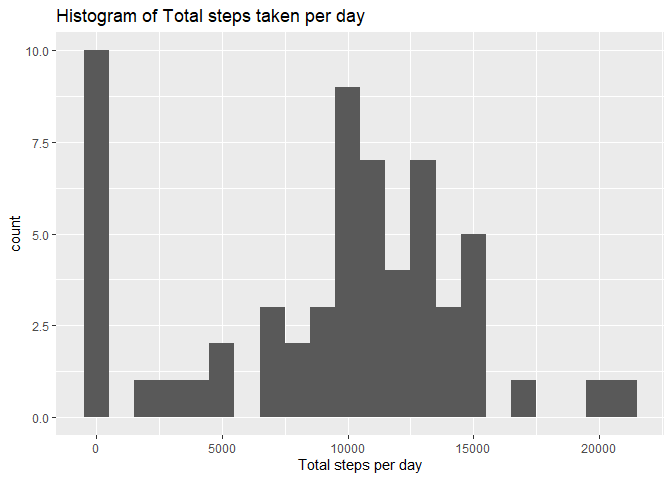
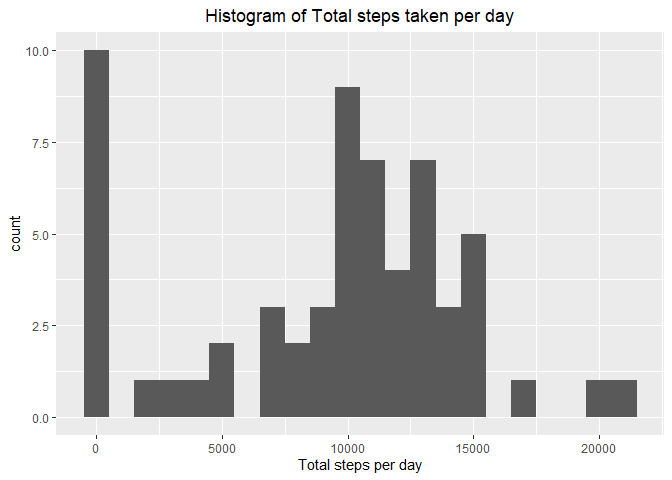
Finished

Changed region(s): [[0.0938, 0.0, 0.7812, 0.0625]]

diff --git a/PA1_template.md b/PA1_template.md
@@ -20,11 +20,13 @@ library(ggplot2)
 ## Warning: package 'ggplot2' was built under R version 4.0.2
 ```
 ## What is mean total number of steps taken per day?
-Calculate the total steps take per day and plot
+Calculate the total steps take per day and its mean and median. Also the histogram of daily steps are plotted.
 
 ```r
 stepDay <- tapply(acti$steps, acti$date, sum, na.rm = TRUE)
 stepDayDF <- data.frame(stepTtlDay = stepDay, Day = unique(acti$date))
+
+theme_update(plot.title = element_text(hjust = 0.5))
 g <- ggplot(stepDayDF, aes(stepTtlDay))
 g + geom_histogram(binwidth = 1000) + labs(x = "Total steps per day", 
                                            title = "Histogram of Total steps taken per day")
@@ -32,11 +34,36 @@ g + geom_histogram(binwidth = 1000) + labs(x = "Total steps per day",
 
 ![](PA1_template_files/figure-html/unnamed-chunk-2-1.png)<!-- -->
 
+```r
+stepDayAve <- mean(stepDay, na.rm = T)
+stepDayMed <- median(stepDay, na.rm = T)
+```
+The average daily steps is 9354.2295082 and the median of daily steps is 10395.
+
 ## What is the average daily activity pattern?
 
+```r
+interval <- strptime(sprintf("%04d", acti$interval),format = "%H%M")
+intervalNum <- interval$hour*60 + interval$min
+patDaily <- tapply(acti$steps, acti$interval,mean,na.rm = TRUE)
+patDailyDF <- data.frame(patternDaily = patDaily, interv = unique(intervalNum))
 
+g <- ggplot(patDailyDF, aes(x = factor(interv), y = patternDaily, group = 1))
+g + geom_line(size = 1) + labs(x = "Interval(hour)", y = "Steps", title = "Daily pattern of activity") +
+  scale_x_discrete( breaks = as.character(seq(min(intervalNum),max(intervalNum+5),60*6)),
+                    labels = as.character(seq(min(intervalNum)/60,max(intervalNum+5)/60,6)) )
+```
+
+![](PA1_template_files/figure-html/unnamed-chunk-3-1.png)<!-- -->
+
+```r
+maxStep <- max(patDaily)
+maxStepInterval <- format(interval[which.max(patDaily)], format = "%H:%M")
+```
+The daily maximum steps took within one interval is 206.1698113 and the interval is 08:35
 
 ## Imputing missing values
+
 
 
 
